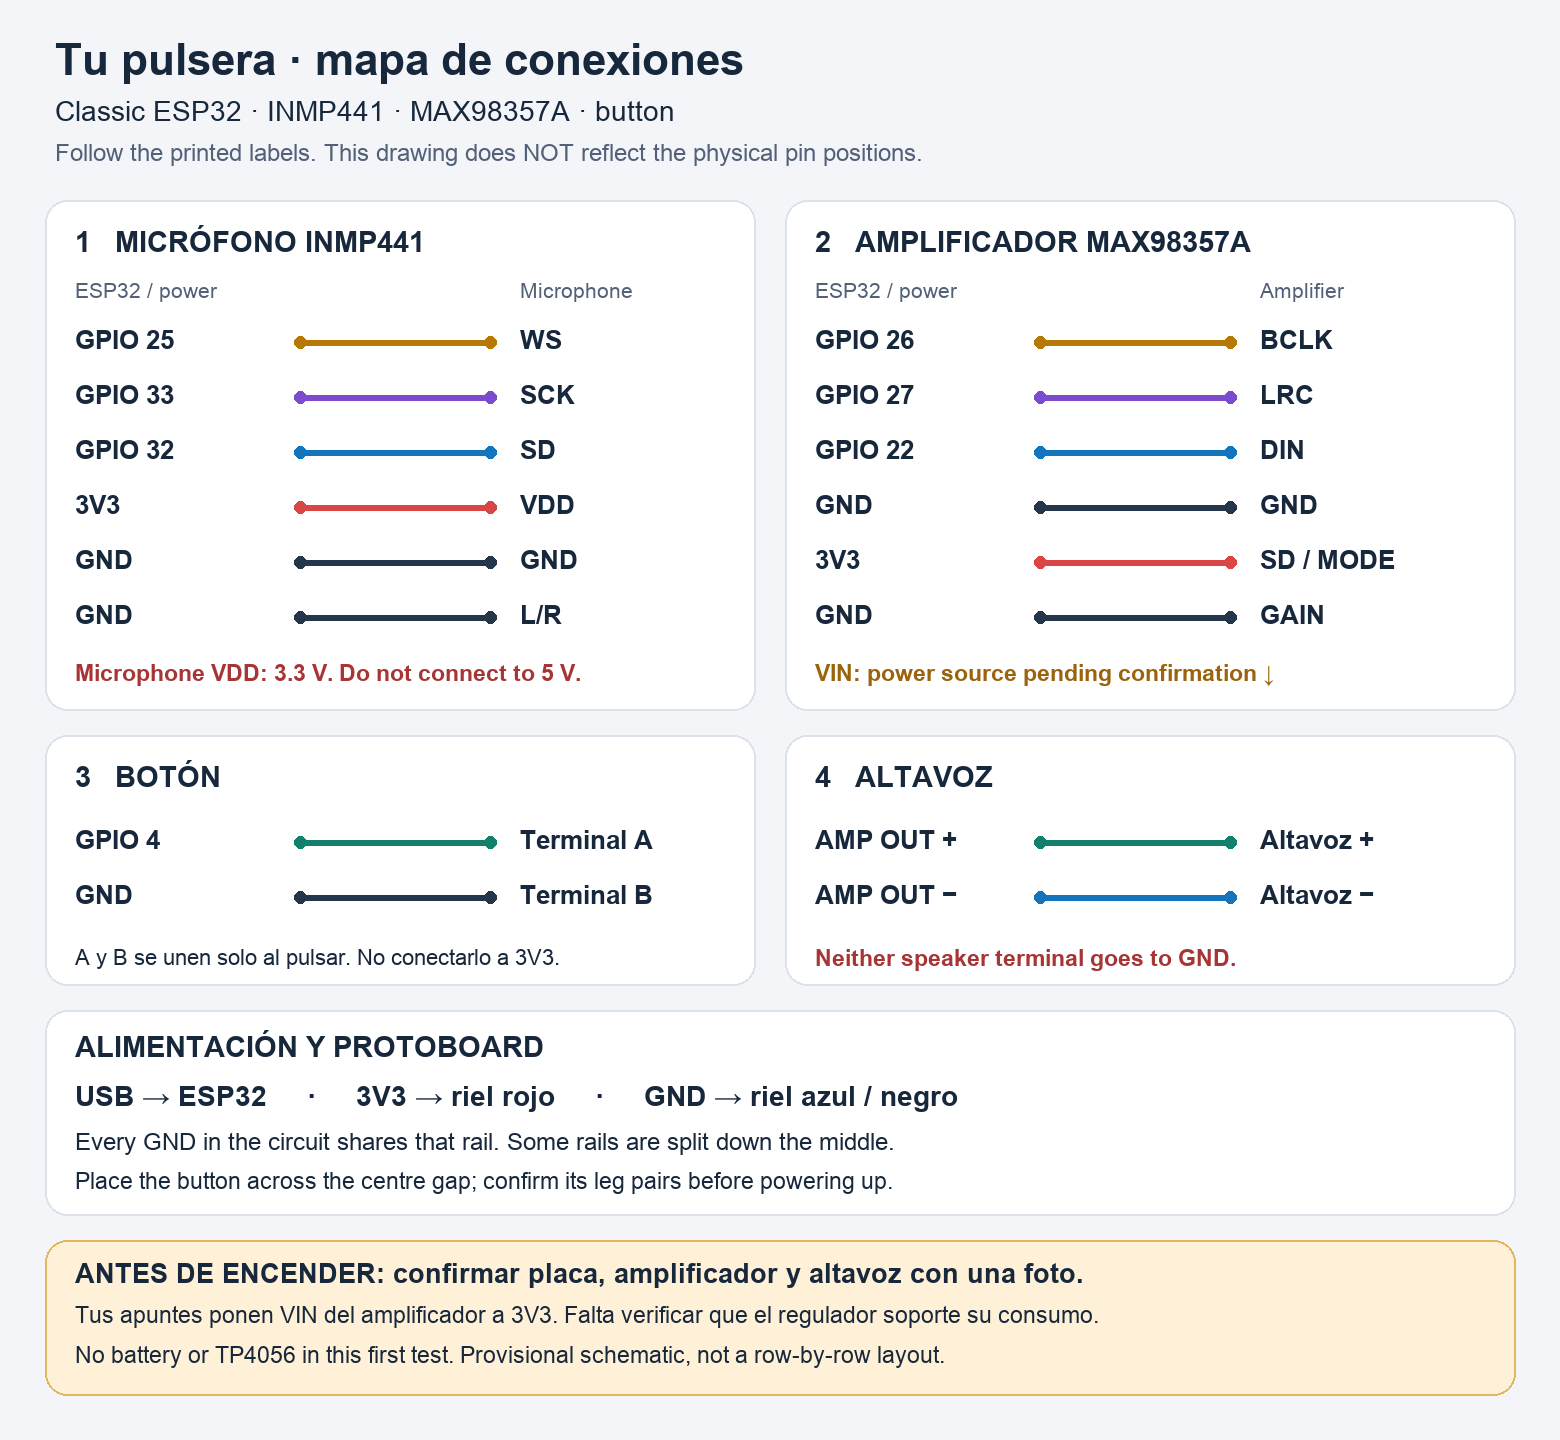
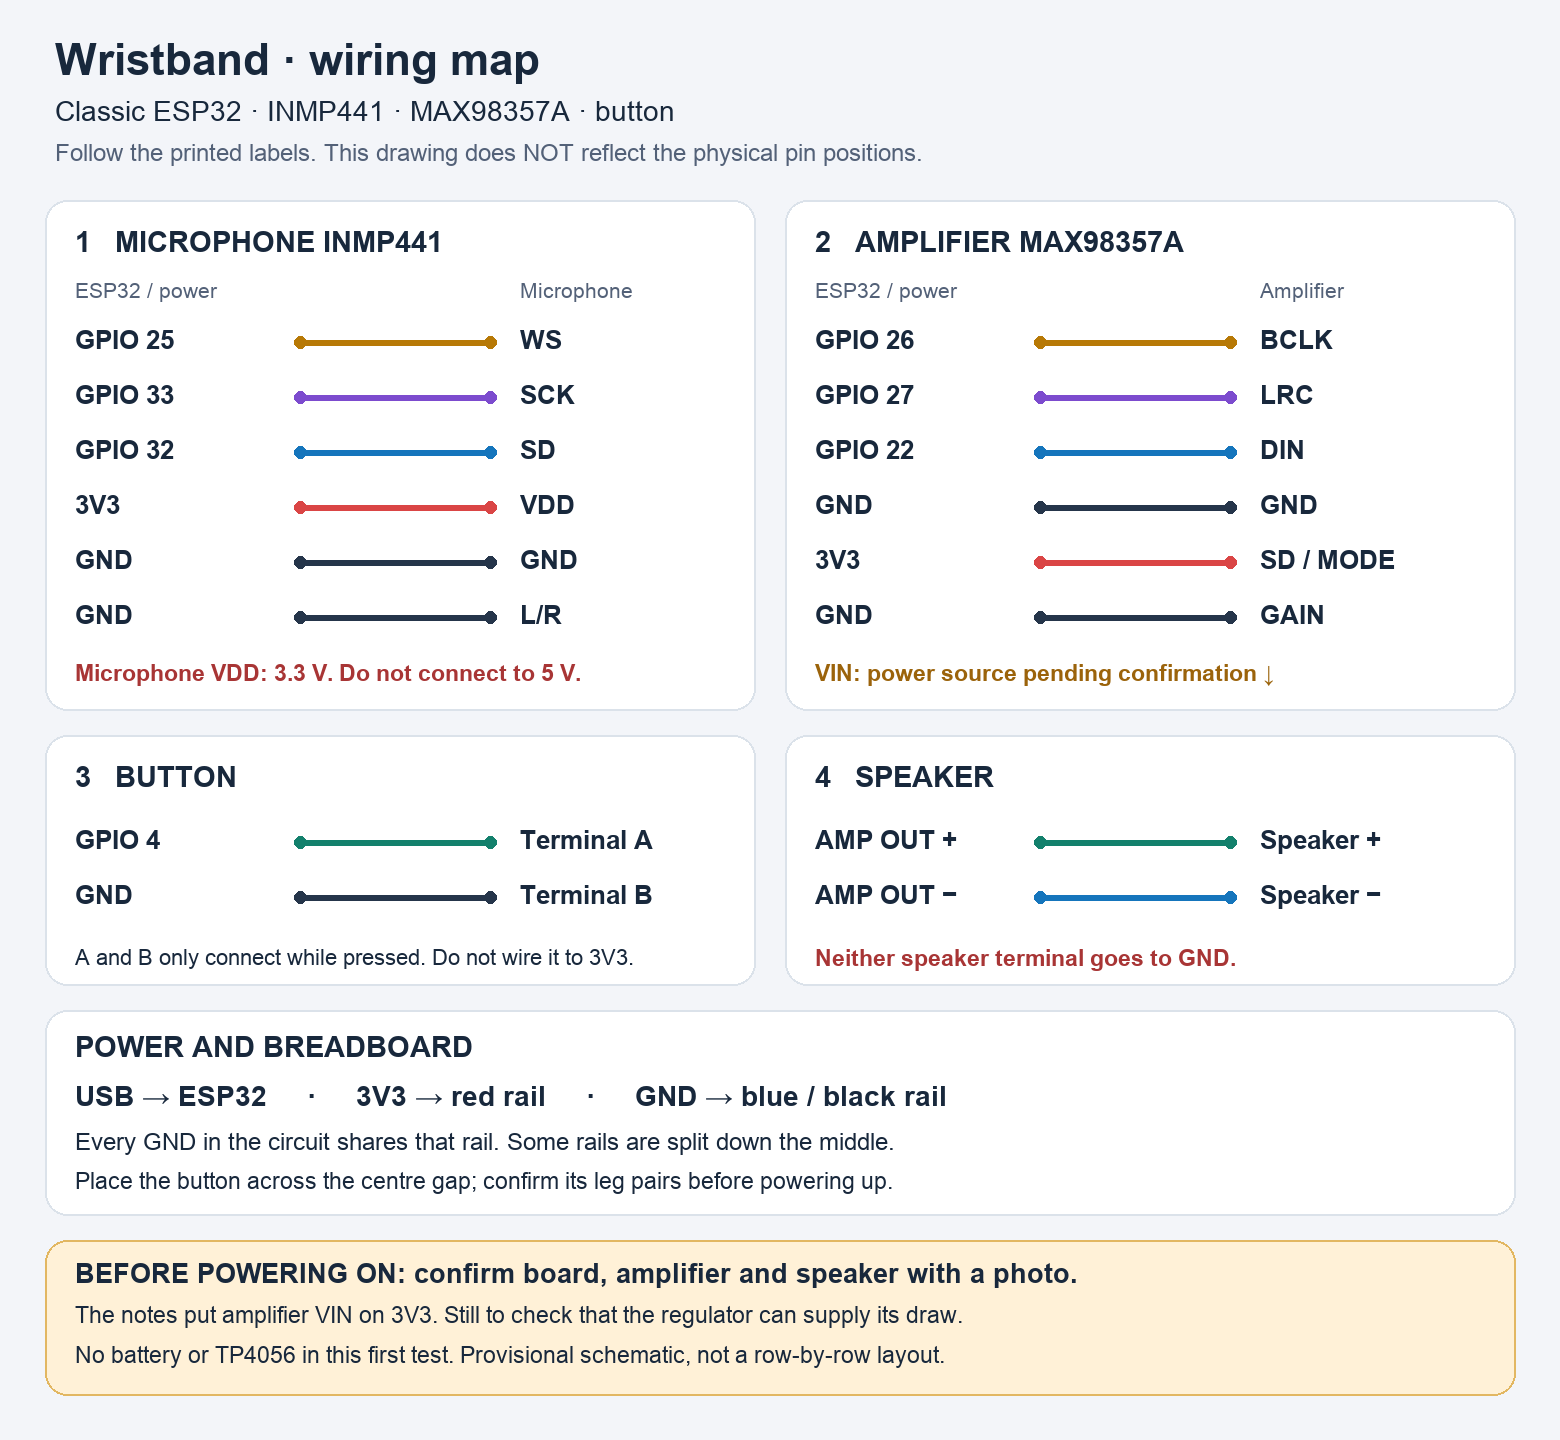
Diagrama de conexiones en inglés y licencia MIT
Claude-Session: https://claude.ai/code/session_01Kz2WKjtWFxZnpoBtjv6jFy

diff --git a/scripts/draw_wiring.py b/scripts/draw_wiring.py
@@ -11,32 +11,32 @@ def row(x,y,a,b,col):
  txt(x,y,a,26,b=True);d.line((x+225,y+17,x+415,y+17),fill=col,width=6)
  for xx in (x+225,x+415): d.ellipse((xx-6,y+11,xx+6,y+23),fill=col)
  txt(x+445,y,b,26,b=True)
-txt(55,35,'Tu pulsera · mapa de conexiones',44,b=True)
+txt(55,35,'Wristband · wiring map',44,b=True)
 txt(55,95,'Classic ESP32 · INMP441 · MAX98357A · button',28)
 txt(55,139,'Follow the printed labels. This drawing does NOT reflect the physical pin positions.',24,color='#536178')
 box(45,200,710,510);box(785,200,730,510)
-txt(75,225,'1   MICRÓFONO INMP441',29,b=True)
+txt(75,225,'1   MICROPHONE INMP441',29,b=True)
 txt(75,278,'ESP32 / power',21,color='#536178');txt(520,278,'Microphone',21,color='#536178')
 for y,a,b,c in [(325,'GPIO 25','WS','#b77906'),(380,'GPIO 33','SCK','#7c4bce'),(435,'GPIO 32','SD','#1575bc'),(490,'3V3','VDD','#da4545'),(545,'GND','GND','#25354a'),(600,'GND','L/R','#25354a')]:row(75,y,a,b,c)
 txt(75,660,'Microphone VDD: 3.3 V. Do not connect to 5 V.',23,color='#a83535',b=True)
-txt(815,225,'2   AMPLIFICADOR MAX98357A',29,b=True)
+txt(815,225,'2   AMPLIFIER MAX98357A',29,b=True)
 txt(815,278,'ESP32 / power',21,color='#536178');txt(1260,278,'Amplifier',21,color='#536178')
 for y,a,b,c in [(325,'GPIO 26','BCLK','#b77906'),(380,'GPIO 27','LRC','#7c4bce'),(435,'GPIO 22','DIN','#1575bc'),(490,'GND','GND','#25354a'),(545,'3V3','SD / MODE','#da4545'),(600,'GND','GAIN','#25354a')]:row(815,y,a,b,c)
 txt(815,660,'VIN: power source pending confirmation ↓',23,color='#9b630b',b=True)
 box(45,735,710,250);box(785,735,730,250)
-txt(75,760,'3   BOTÓN',29,b=True)
+txt(75,760,'3   BUTTON',29,b=True)
 row(75,825,'GPIO 4','Terminal A','#13806c');row(75,880,'GND','Terminal B','#25354a')
-txt(75,945,'A y B se unen solo al pulsar. No conectarlo a 3V3.',22)
-txt(815,760,'4   ALTAVOZ',29,b=True)
-row(815,825,'AMP OUT +','Altavoz +','#13806c');row(815,880,'AMP OUT −','Altavoz −','#1575bc')
+txt(75,945,'A and B only connect while pressed. Do not wire it to 3V3.',22)
+txt(815,760,'4   SPEAKER',29,b=True)
+row(815,825,'AMP OUT +','Speaker +','#13806c');row(815,880,'AMP OUT −','Speaker −','#1575bc')
 txt(815,945,'Neither speaker terminal goes to GND.',23,color='#a83535',b=True)
 box(45,1010,1470,205)
-txt(75,1030,'ALIMENTACIÓN Y PROTOBOARD',29,b=True)
-txt(75,1080,'USB → ESP32     ·     3V3 → riel rojo     ·     GND → riel azul / negro',28,b=True)
+txt(75,1030,'POWER AND BREADBOARD',29,b=True)
+txt(75,1080,'USB → ESP32     ·     3V3 → red rail     ·     GND → blue / black rail',28,b=True)
 txt(75,1128,'Every GND in the circuit shares that rail. Some rails are split down the middle.',24)
 txt(75,1168,'Place the button across the centre gap; confirm its leg pairs before powering up.',23)
 d.rounded_rectangle((45,1240,1515,1395),radius=22,fill='#fff1d7',outline='#e2b762',width=2)
-txt(75,1258,'ANTES DE ENCENDER: confirmar placa, amplificador y altavoz con una foto.',27,b=True)
-txt(75,1302,'Tus apuntes ponen VIN del amplificador a 3V3. Falta verificar que el regulador soporte su consumo.',23)
+txt(75,1258,'BEFORE POWERING ON: confirm board, amplifier and speaker with a photo.',27,b=True)
+txt(75,1302,'The notes put amplifier VIN on 3V3. Still to check that the regulator can supply its draw.',23)
 txt(75,1342,'No battery or TP4056 in this first test. Provisional schematic, not a row-by-row layout.',23)
 im.save(ROOT/'docs/images/provisional-wiring.png')

diff --git a/README.md b/README.md
@@ -4,6 +4,8 @@ Wrist-worn voice assistant with a button and a speaker, no camera. Built on a re
 
 The main path is **Whisper on the computer → conversational model over API → speech with gTTS**. Chatterbox Multilingual remains the local alternative. Future options — on-device commands and local AI on the phone — are covered in [Local AI](docs/future-local-ai.md).
 
+![Wiring map: ESP32, INMP441 microphone, MAX98357A amplifier, button](docs/images/provisional-wiring.png)
+
 ## Status
 
 The server has been refactored with external configuration, a text-only test, a WAV test, Whisper preloading and progressive spoken responses. It keeps the original WAV mode on `/audio` and adds streaming PCM for the updated firmware. 25 Python tests and the C++ transport tests pass, along with two real end-to-end runs against the API. The key is configured locally and Whisper base is already downloaded. The firmware compiles for ESP32 Dev Module with core 3.3.11; it has not been tested on physical hardware yet, and there is no cloud deployment.
@@ -122,3 +124,7 @@ The ESP32 captures audio in one task and sends it from another through a 16-chun
 ```
 
 This compiles a copy with example credentials, without touching the board or the private `config.h`. See [protocol, tests, tooling and limits](docs/firmware-and-protocol.md). The server must be updated alongside the firmware; the Mac conversation program keeps working with the same command.
+
+## License
+
+MIT
